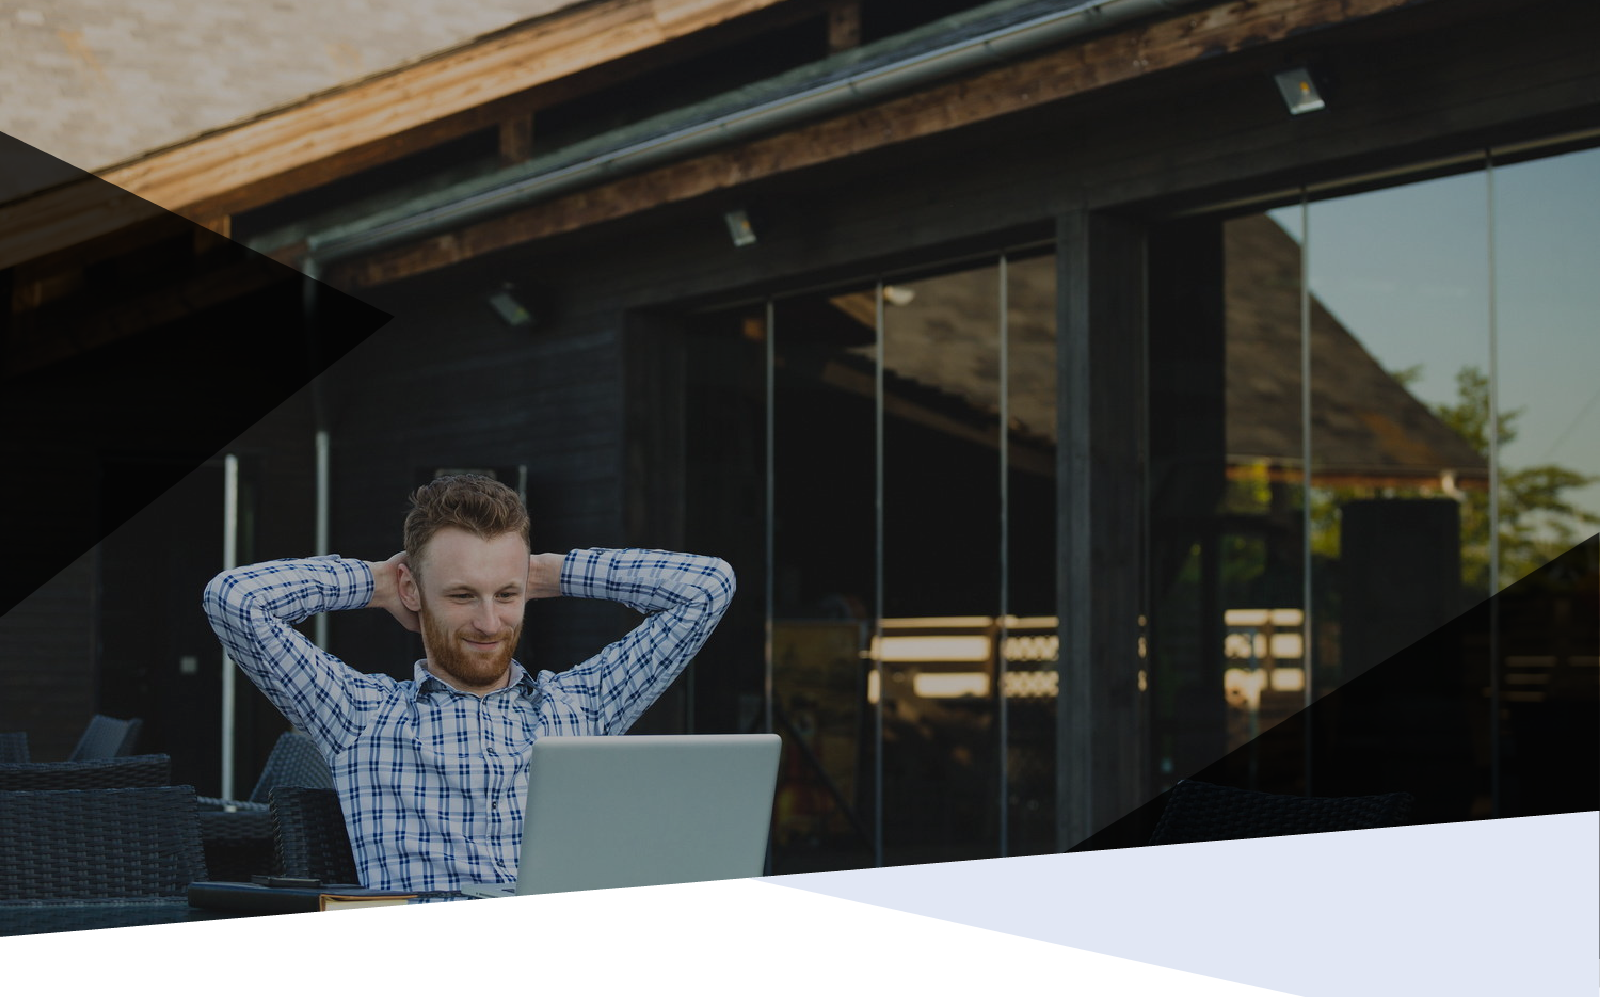
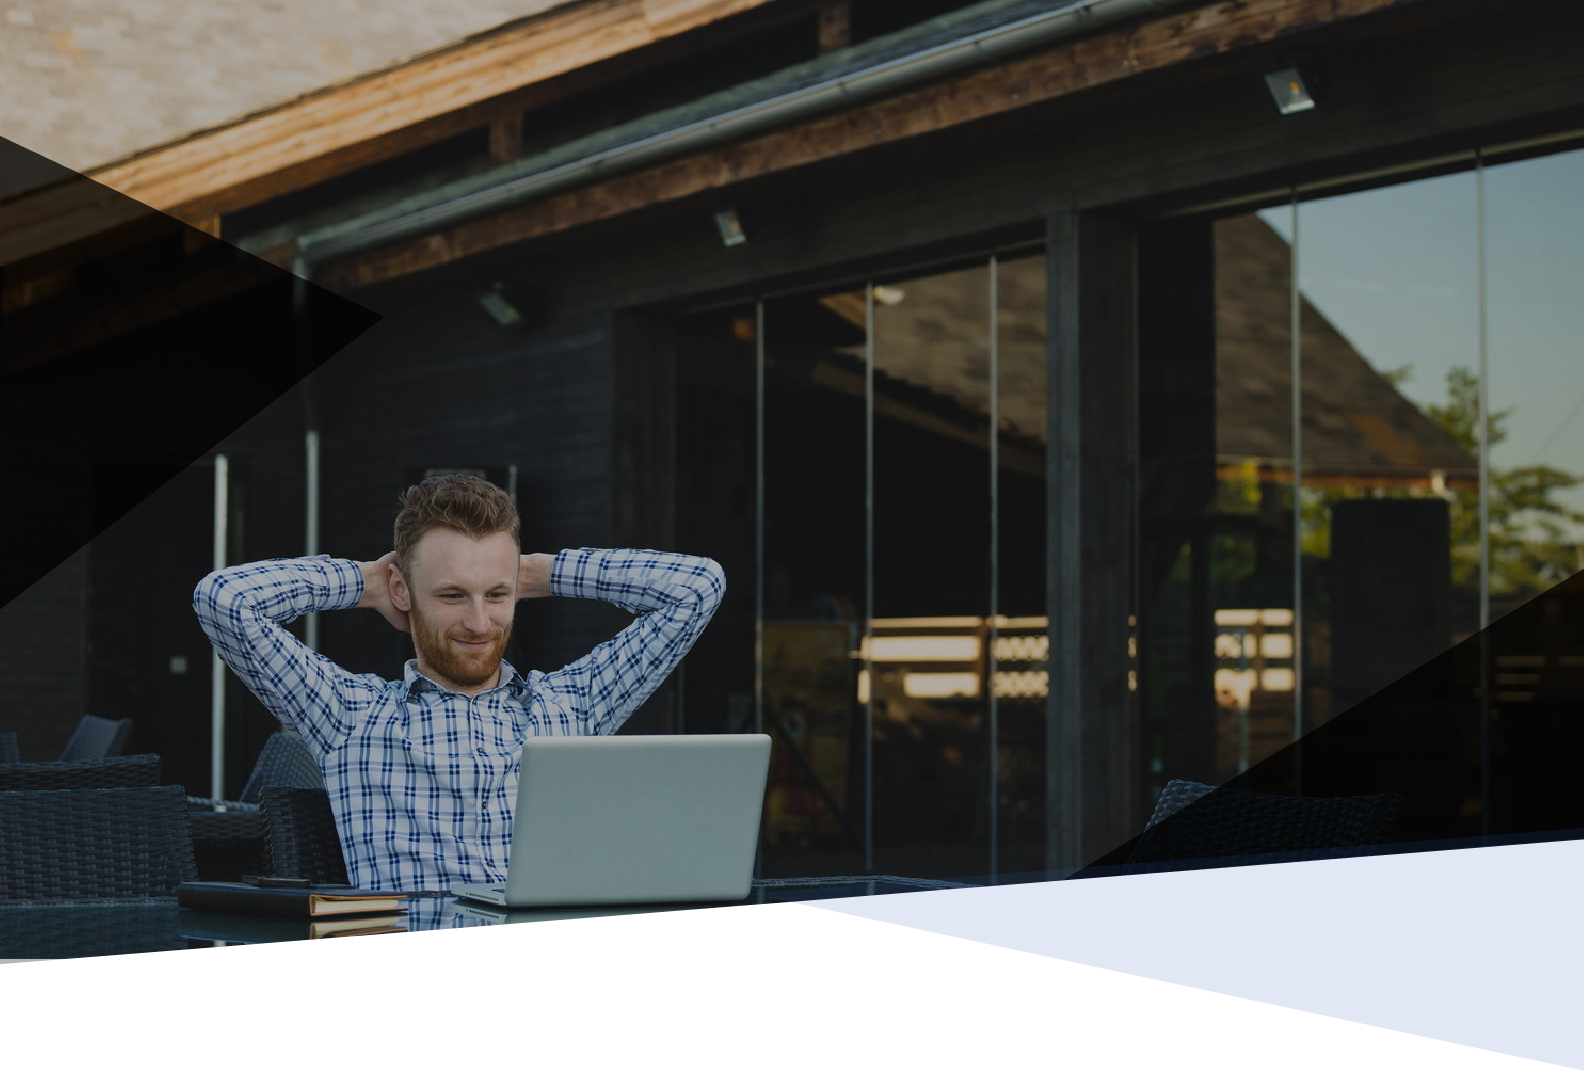
Homepage design

diff --git a/public/assets/css/main.css b/public/assets/css/main.css
@@ -24681,35 +24681,11 @@ a:hover {
   float: left;
   width: 100%;
   min-height: 500px;
-  background: #110e25;
-  background-size: cover;
+  background-color: #110e25;
+  background-size: 100% auto;
+  background-repeat: no-repeat;
   text-align: center;
   margin-bottom: 150px;
-}
-
-.hero.hero-homepage {
-  background-image: url("/images/hero-homepage.png");
-}
-
-.hero.hero-homepage * {
-  text-align: left;
-}
-
-.hero.hero-curved {
-  background-image: url("/images/i.png");
-}
-
-.hero.hero-influencers {
-  background-image: url("/images/curves.png");
-  background-size: cover;
-  background-position: bottom;
-  background-repeat: no-repeat;
-}
-
-.hero.hero-influencers h1 {
-  padding: 20px 0 20px 0;
-  margin-top: 70px;
-  font-size: 50px;
 }
 
 .hero.hero-lg {
@@ -24734,6 +24710,32 @@ a:hover {
 .hero.hero-xs {
   min-height: 300px;
   padding: 125px 0;
+}
+
+.hero.hero-homepage {
+  background-image: url("/images/hero-homepage.png");
+  padding: 200px 0 0 0;
+}
+
+.hero.hero-homepage * {
+  text-align: left;
+}
+
+.hero.hero-curved {
+  background-image: url("/images/i.png");
+}
+
+.hero.hero-influencers {
+  background-image: url("/images/curves.png");
+  background-size: cover;
+  background-position: bottom;
+  background-repeat: no-repeat;
+}
+
+.hero.hero-influencers h1 {
+  padding: 20px 0 20px 0;
+  margin-top: 70px;
+  font-size: 50px;
 }
 
 .hero.hero-gradient {
@@ -25117,6 +25119,22 @@ a:hover {
   color: #333;
   background-color: #fff;
   border-color: #eee;
+}
+
+h1.line-heading {
+  background-image: url("/images/line1.png"), url("/images/line.png");
+  background-position: right bottom, left top;
+  background-repeat: no-repeat, no-repeat;
+  padding: 16px 0;
+  font-weight: bold;
+  font-size: 65px;
+  letter-spacing: -0.13px;
+  color: #1C1C1C;
+}
+
+h1.line-heading.center {
+  display: inline-block;
+  margin: 0 auto;
 }
 
 .homepage .info-box .info-box-icon {

diff --git a/public/build/assets/css/main-6d7e5256d3.css b/public/build/assets/css/main-6d7e5256d3.css
@@ -24681,35 +24681,11 @@ a:hover {
   float: left;
   width: 100%;
   min-height: 500px;
-  background: #110e25;
-  background-size: cover;
+  background-color: #110e25;
+  background-size: 100% auto;
+  background-repeat: no-repeat;
   text-align: center;
   margin-bottom: 150px;
-}
-
-.hero.hero-homepage {
-  background-image: url("/images/hero-homepage.png");
-}
-
-.hero.hero-homepage * {
-  text-align: left;
-}
-
-.hero.hero-curved {
-  background-image: url("/images/i.png");
-}
-
-.hero.hero-influencers {
-  background-image: url("/images/curves.png");
-  background-size: cover;
-  background-position: bottom;
-  background-repeat: no-repeat;
-}
-
-.hero.hero-influencers h1 {
-  padding: 20px 0 20px 0;
-  margin-top: 70px;
-  font-size: 50px;
 }
 
 .hero.hero-lg {
@@ -24734,6 +24710,32 @@ a:hover {
 .hero.hero-xs {
   min-height: 300px;
   padding: 125px 0;
+}
+
+.hero.hero-homepage {
+  background-image: url("/images/hero-homepage.png");
+  padding: 200px 0 0 0;
+}
+
+.hero.hero-homepage * {
+  text-align: left;
+}
+
+.hero.hero-curved {
+  background-image: url("/images/i.png");
+}
+
+.hero.hero-influencers {
+  background-image: url("/images/curves.png");
+  background-size: cover;
+  background-position: bottom;
+  background-repeat: no-repeat;
+}
+
+.hero.hero-influencers h1 {
+  padding: 20px 0 20px 0;
+  margin-top: 70px;
+  font-size: 50px;
 }
 
 .hero.hero-gradient {
@@ -25117,6 +25119,22 @@ a:hover {
   color: #333;
   background-color: #fff;
   border-color: #eee;
+}
+
+h1.line-heading {
+  background-image: url("/images/line1.png"), url("/images/line.png");
+  background-position: right bottom, left top;
+  background-repeat: no-repeat, no-repeat;
+  padding: 16px 0;
+  font-weight: bold;
+  font-size: 65px;
+  letter-spacing: -0.13px;
+  color: #1C1C1C;
+}
+
+h1.line-heading.center {
+  display: inline-block;
+  margin: 0 auto;
 }
 
 .homepage .info-box .info-box-icon {

diff --git a/resources/assets/sass/components/_hero.scss b/resources/assets/sass/components/_hero.scss
@@ -2,35 +2,14 @@
   float: left;
   width: 100%;
   min-height: 500px;
-  background: #110e25;
+  background-color: #110e25;
   //background-image: linear-gradient(rgba(0, 0, 0, 0.65) 35%, rgba(0, 0, 0, 0.73) 80%), url(/images/hero1.jpg);
   //background-image: url(/images/hero.jpg);
-  background-size: cover;
+  background-size: 100% auto;
+  background-repeat: no-repeat;
   text-align: center;
   margin-bottom: 150px;
-  
-  &.hero-homepage {
-    background-image: url('/images/hero-homepage.png');
-    & * {
-      text-align: left;
-    }
-  }
-  &.hero-curved {
-    background-image: url('/images/i.png');
-  }
 
-  &.hero-influencers {
-    & h1 {
-      padding: 20px 0 20px 0;
-      margin-top: 70px;
-      font-size: 50px;
-    }
-    background-image: url('/images/curves.png');
-    background-size: cover;
-    background-position: bottom;
-    background-repeat:no-repeat;
-  }
-  
   &.hero-lg {
     min-height: 600px;
     padding: 200px 0;
@@ -51,6 +30,30 @@
     min-height: 300px;
     padding: 125px 0;
   }
+
+  &.hero-homepage {
+    background-image: url('/images/hero-homepage.png');
+    padding: 200px 0 0 0 ;
+    & * {
+      text-align: left;
+    }
+  }
+  &.hero-curved {
+    background-image: url('/images/i.png');
+  }
+
+  &.hero-influencers {
+    & h1 {
+      padding: 20px 0 20px 0;
+      margin-top: 70px;
+      font-size: 50px;
+    }
+    background-image: url('/images/curves.png');
+    background-size: cover;
+    background-position: bottom;
+    background-repeat:no-repeat;
+  }
+
 
   &.hero-gradient {
     background: rgba(255,255,255,0.99);

diff --git a/resources/assets/sass/components/_headings.scss b/resources/assets/sass/components/_headings.scss
@@ -1,0 +1,19 @@
+h1.line-heading {
+  background-image: url('/images/line1.png'), url('/images/line.png');
+  background-position: right bottom, left top;
+  background-repeat: no-repeat, no-repeat;
+
+  padding: 16px 0;
+
+
+  font-weight : bold;
+  font-size : 65px;
+  letter-spacing : -0.13px;
+  color : #1C1C1C;
+
+  &.center {
+    display: inline-block;
+    margin: 0 auto;
+  }
+
+}

diff --git a/resources/assets/sass/app.scss b/resources/assets/sass/app.scss
@@ -92,6 +92,7 @@ body {
 @import "components/icons";
 @import "components/fonts";
 @import "components/panel";
+@import "components/headings";
 
 @import "pages/home";
 @import "pages/influencers";

diff --git a/resources/views/home/index.blade.php b/resources/views/home/index.blade.php
@@ -5,25 +5,28 @@
 
 @section('body')
     <div class="homepage">
-        <div class="hero hero-lg hero-homepage">
+        <div class="hero hero-lg hero-homepage" style="max-height: 1035px;">
             <div class="container">
                 <div class="row">
                     <div class="col-sm-8">
                         <h1 style="text-transform: uppercase;">Monetize the reach of your social media following</h1>
-                        <div class="container" style="height: 20px;"></div>
+                        <img src="/images/line-white.png" alt="">
+                        <div class="container" style="height: 10px;"></div>
                         <h4>Do you have a fan page, a niche page, a model page, or any other type of page with a large following?</h4>
                         <div class="container" style="height: 8px;"></div>
                     </div>
                 </div>
                 <div class="clearfix"></div>
                 <a href="{{ url('/influencers/apply') }}" class="btn btn-primary btn-lg btn-sm-txt btn-extra-margin btn-radius">&nbsp;&nbsp;&nbsp;&nbsp;&nbsp;<strong>JOIN NOW</strong>&nbsp;&nbsp;&nbsp;&nbsp;&nbsp;</a>
-                <div class="container" style="height: 250px;"></div>
+                <div class="container" style="height: 400px;"></div>
             </div>
         </div><!-- End .hero -->
 
-        <div class="container">
-            <h1 class="text-center"><strong>Become an Influencer</strong></h1>
+        <div class="clearfix"></div>
+        <div class="container text-center">
+            <h1 class="line-heading center">Become an Influencer</h1>
         </div>
+        <div class="clearfix"></div>
 
         <div class="hero hero-curved" style="background-color: transparent;">
             <div class="container" style="height: 250px;"></div>
@@ -47,7 +50,11 @@
                 </div>
             </div>
             <div class="container" style="height: 300px;"></div>
-            <h1 class="text-center"><strong style="color: #000">Become an Influencer</strong></h1>
+            <div class="clearfix"></div>
+            <div class="container text-center">
+                <h1 class="line-heading center">Become an Influencer</h1>
+            </div>
+            <div class="clearfix"></div>
             <div class="container" style="height: 150px;"></div>
         </div>
         <div class="clearfix"></div>
